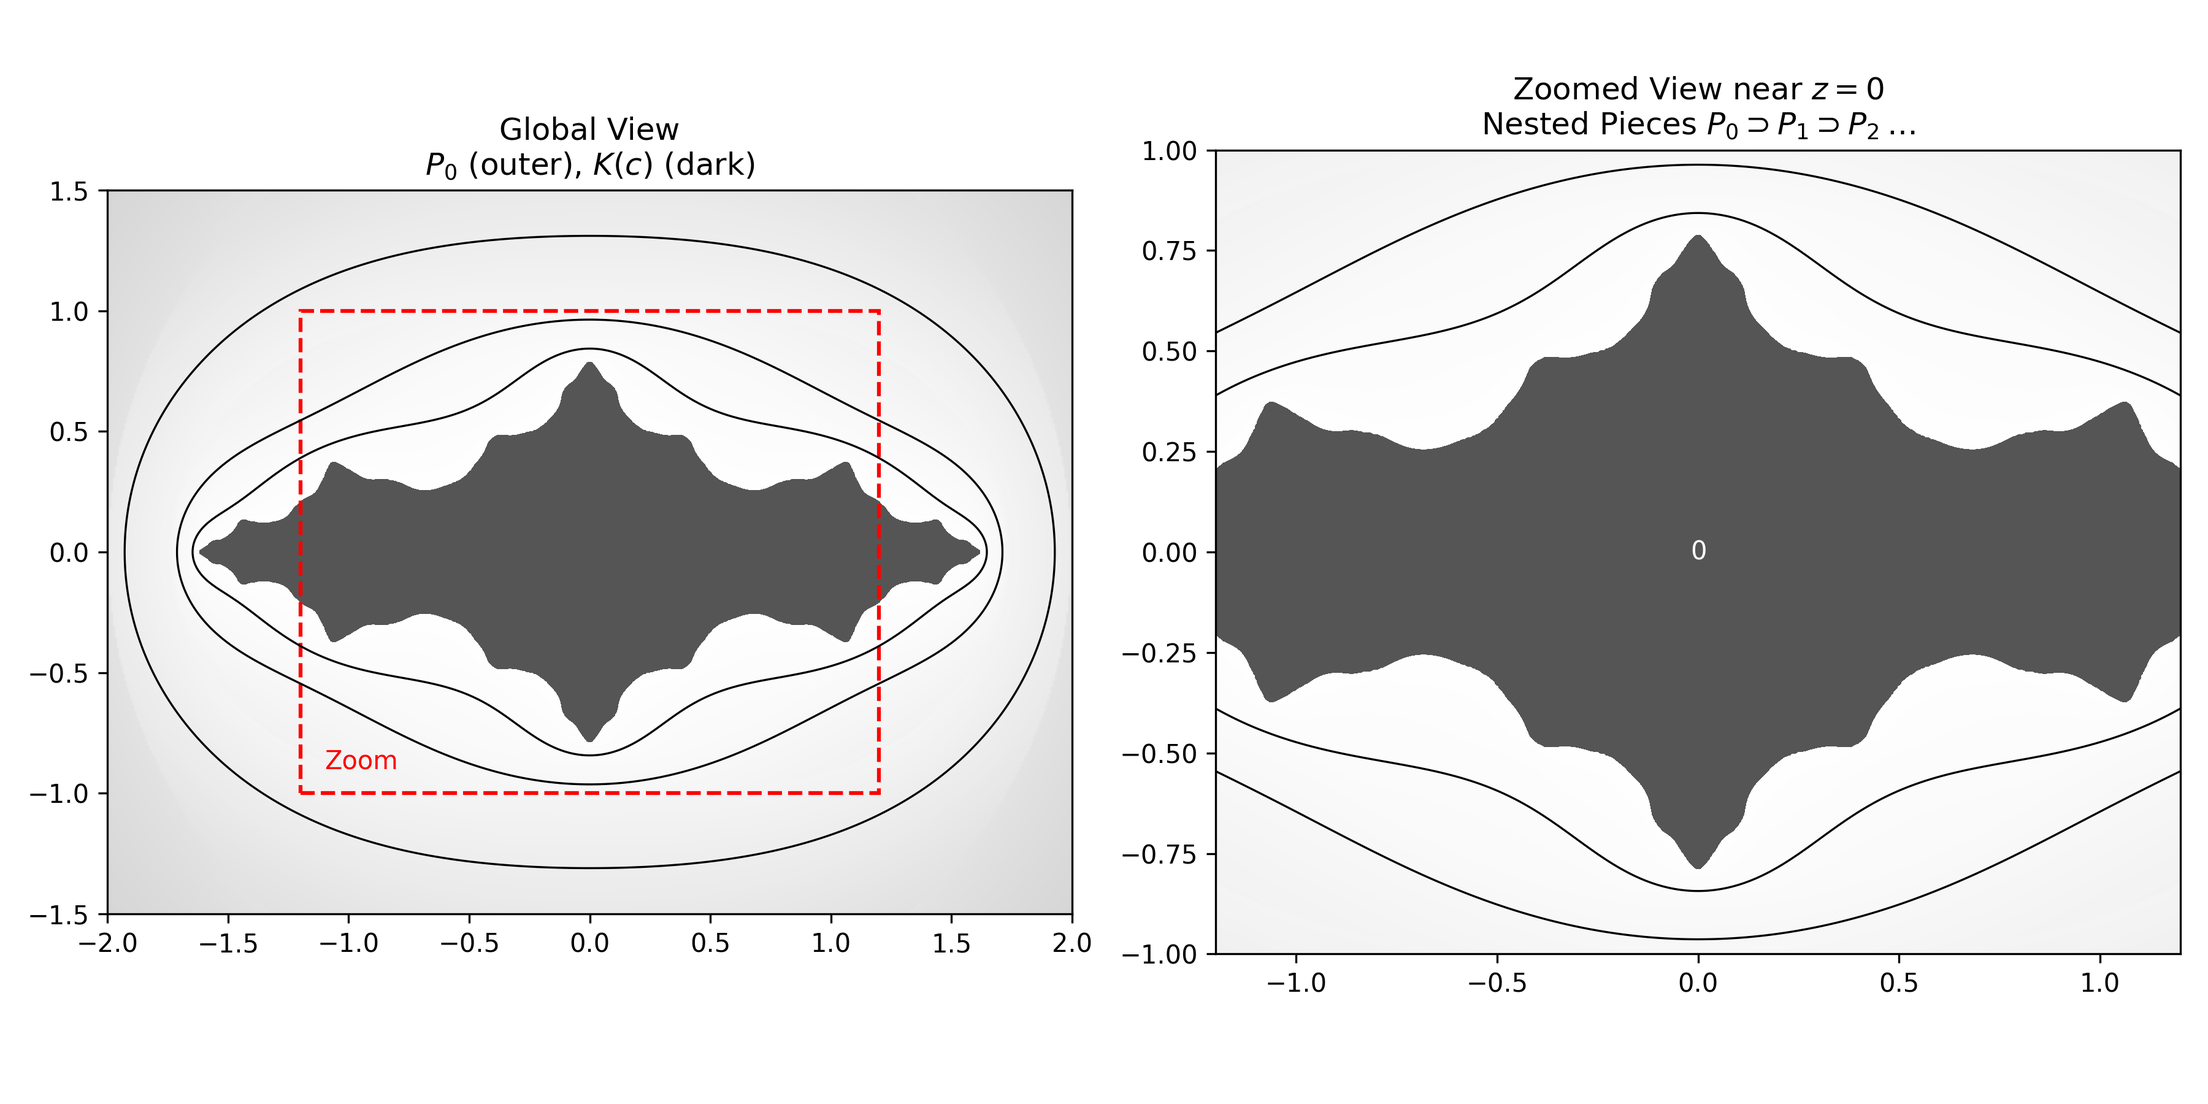
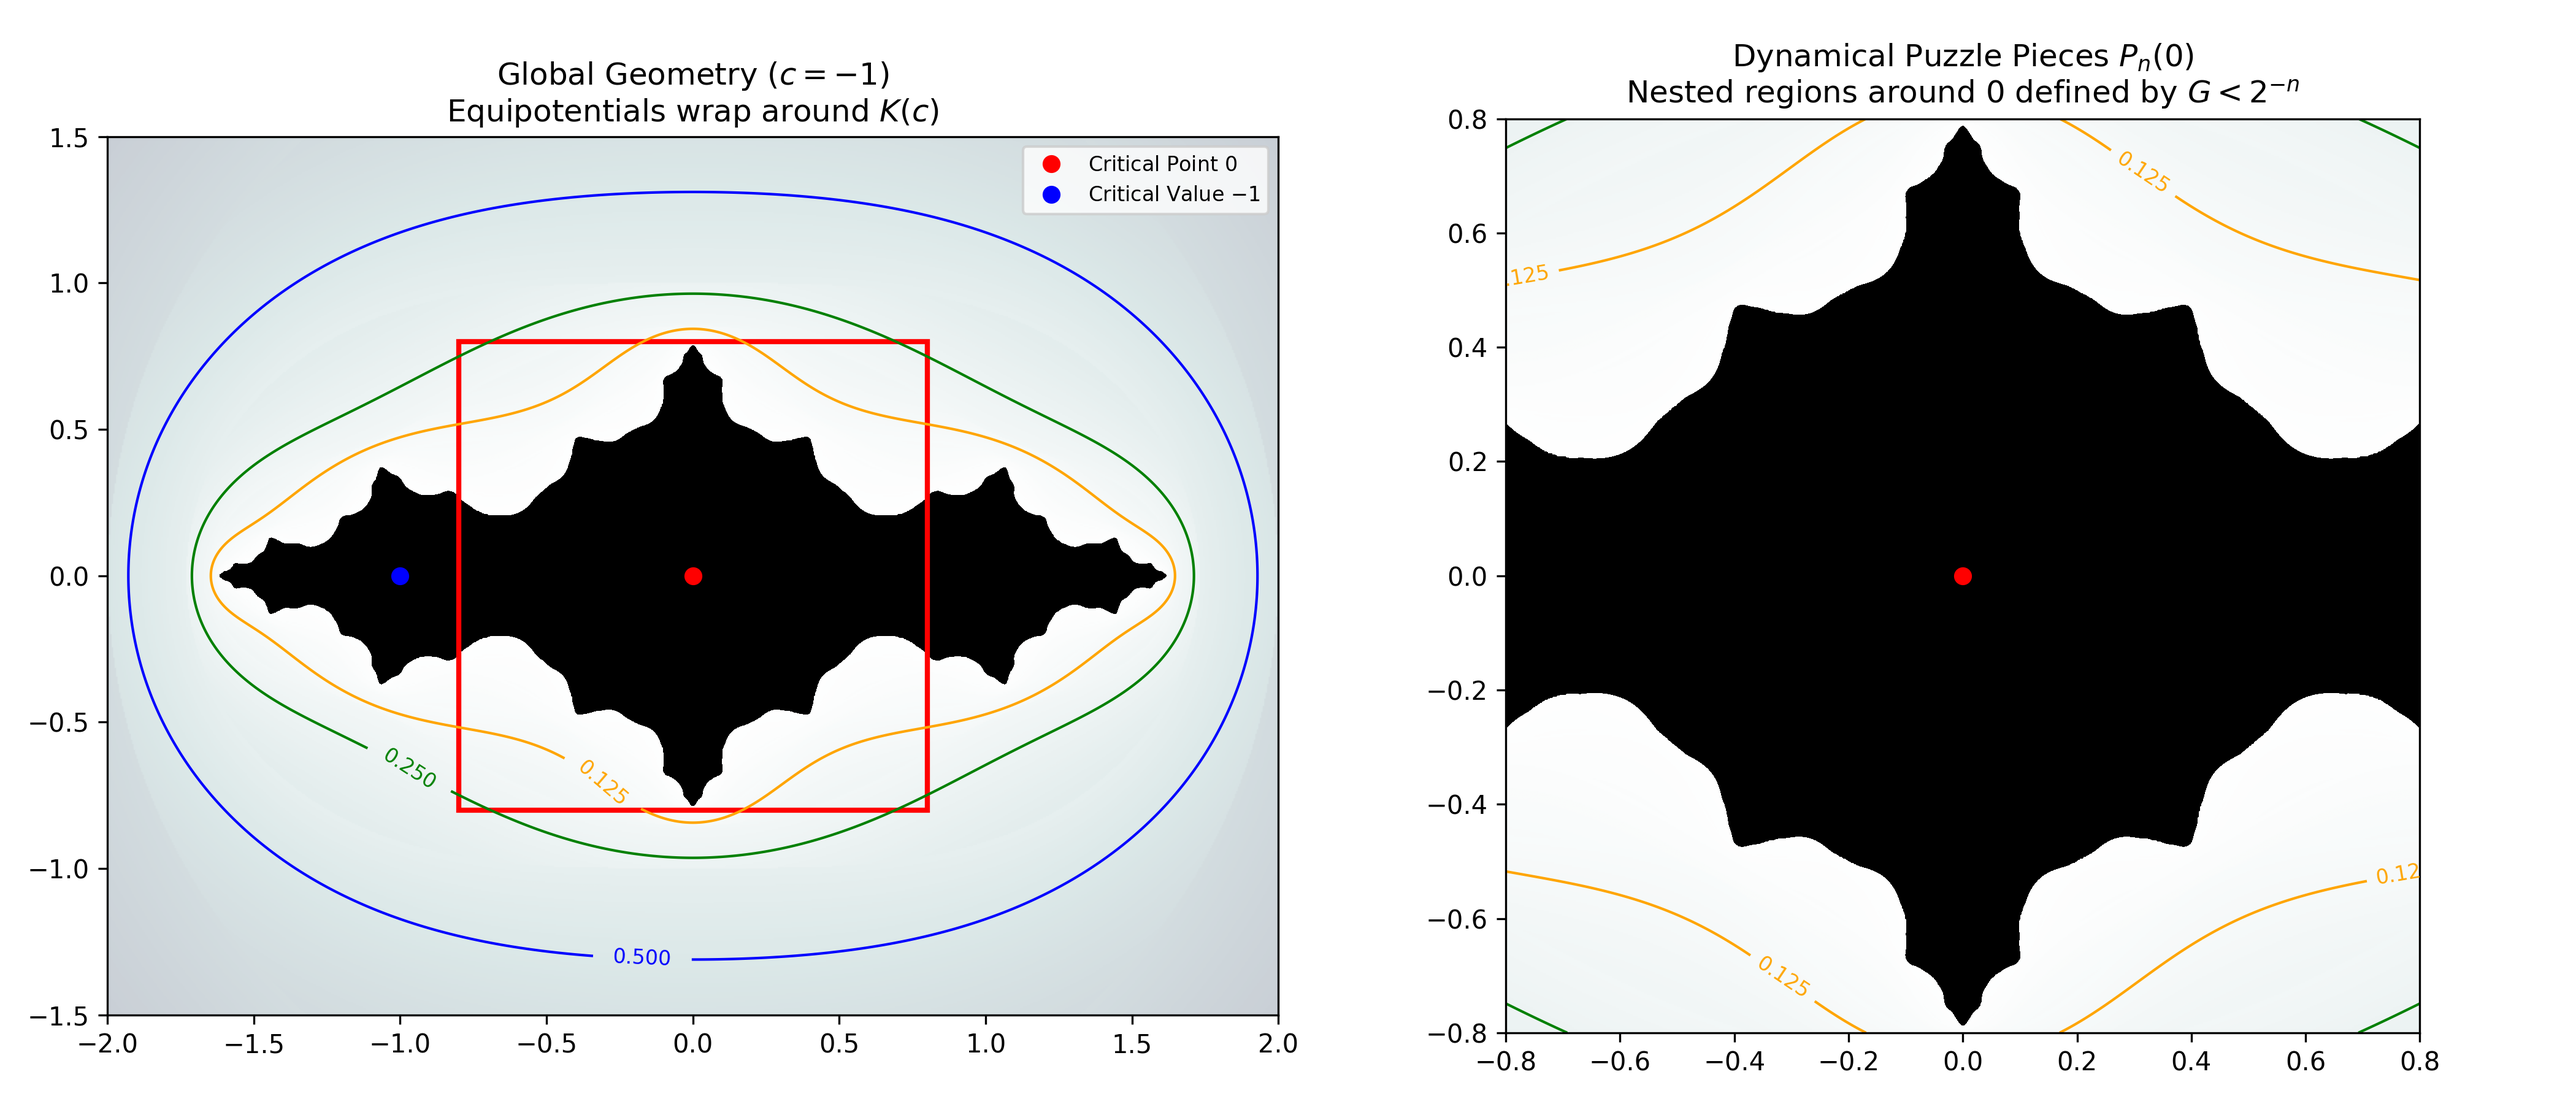
WIP

diff --git a/scripts/plot_puzzle.py b/scripts/plot_puzzle.py
@@ -18,38 +18,57 @@ def green_function(c, z, max_iter=100, R=2.0):
         zn[not_escaped] = zn[not_escaped]**2 + c
     return g
 
-def plot_view(c, ax, extent, title, add_labels=False):
-    x = np.linspace(extent[0], extent[1], 500)
-    y = np.linspace(extent[2], extent[3], 500)
+def plot_view(c, ax, extent, title, zoom_rect=None, is_global=False):
+    # Higher resolution
+    x = np.linspace(extent[0], extent[1], 800)
+    y = np.linspace(extent[2], extent[3], 600)
     X, Y = np.meshgrid(x, y)
     Z = X + 1j * Y
     
-    G = green_function(c, Z, max_iter=60)
+    # Compute Green's function
+    G = green_function(c, Z, max_iter=100)
     
-    # Plot background potential
-    ax.imshow(G, extent=extent, origin='lower', cmap='Greys', vmax=1.5, alpha=0.3)
+    # Plot background potential (Greys)
+    # We want to clearly see the "Basin of Infinity" potential
+    ax.imshow(G, extent=extent, origin='lower', cmap='bone_r', vmax=2.0, alpha=0.4)
     
-    # Plot filled Julia set approximation
-    ax.contourf(X, Y, G, levels=[0, 0.02], colors=['#555555'])
+    # Plot filled Julia set (approx G=0)
+    ax.contourf(X, Y, G, levels=[0, 0.01], colors=['black'])
     
-    # Contours for puzzle pieces levels 1/2^n
-    # levels: 1.0 (n=0), 0.5 (n=1), 0.25 (n=2), 0.125 (n=3)
-    plot_levels = sorted([1.0, 0.5, 0.25, 0.125])
-    
-    # Use different colors/styles for contours to distinguish depth
-    cs = ax.contour(X, Y, G, levels=plot_levels, colors='black', linewidths=0.8)
-    
-    if add_labels:
-        ax.text(0, 0, '$0$', ha='center', va='center', fontweight='bold', color='white')
-        # Label P_0 \ P_1
-        # P_0 is G < 1. P_1 is G < 0.5.
-        # So region between 0.5 and 1.0
-        # In zoomed view (extent ~ 1.5), we can place it.
-        # For Basilica c=-1, critical point is 0. Critical value -1.
-        # Another component of P_1 is around -1? No P_n(0) is component containing 0.
+    # Plot Critical Point and Critical Value
+    if is_global:
+        ax.plot(0, 0, 'ro', label='Critical Point $0$')
+        ax.plot(-1, 0, 'bo', label='Critical Value $-1$')
+        ax.legend(loc='upper right', fontsize=8)
+    else:
+        ax.plot(0, 0, 'ro')
         
-        # Just simple labels
-        pass
+    # Contours
+    # We want to show how the "Puzzle Piece" cuts off.
+    # Level 0 (P_0): G = 1.0 (Outer boundary)
+    # Level 1 (P_1): G = 0.5 (Separates components?)
+    # For Basilica, 0 and -1 are in different main components if we cut deep enough.
+    # Actually, for c=-1, 0 and -1 are in the immediate basin of the superattracting cycle 0 <-> -1.
+    # The Julia set touches at the alpha fixed point.
+    
+    # Let's plot levels: 1.0, 0.5, 0.25, 0.125
+    levels = sorted([1.0, 0.5, 0.25, 0.125])
+    colors = ['orange', 'green', 'blue', 'purple'] # Match reversed order: 0.125 (orange), 0.25 (green), 0.5 (blue), 1.0 (purple)
+    
+    cs = ax.contour(X, Y, G, levels=levels, colors=colors, linewidths=1.0)
+    ax.clabel(cs, inline=True, fontsize=8, fmt='%.3f')
+    
+    if zoom_rect:
+        from matplotlib.patches import Rectangle
+        # zoom_rect is (x, y, w, h)
+        rect = Rectangle((zoom_rect[0], zoom_rect[2]), 
+                         zoom_rect[1]-zoom_rect[0], 
+                         zoom_rect[3]-zoom_rect[2], 
+                         linewidth=2, edgecolor='red', facecolor='none', linestyle='-')
+        ax.add_patch(rect)
+        
+        # Draw lines connecting box to the other axes? 
+        # Hard to coordinate between subplots simply, but we can just show the box.
         
     ax.set_title(title)
     ax.set_aspect('equal')
@@ -57,20 +76,26 @@ def plot_view(c, ax, extent, title, add_labels=False):
     ax.set_ylim(extent[2], extent[3])
 
 def main():
-    fig, axes = plt.subplots(1, 2, figsize=(12, 6))
+    fig, axes = plt.subplots(1, 2, figsize=(14, 6))
     
     # Basilica c = -1
     # Global View
-    plot_view(-1, axes[0], [-2.0, 2.0, -1.5, 1.5], "Global View\n$P_0$ (outer), $K(c)$ (dark)")
+    # Show wide enough to see the "figure 8" of Basilica
+    global_extent = [-2.0, 2.0, -1.5, 1.5]
+    zoom_extent = [-0.8, 0.8, -0.8, 0.8]
     
-    # Add a box showing the zoom region
-    from matplotlib.patches import Rectangle
-    rect = Rectangle((-1.2, -1.0), 2.4, 2.0, linewidth=1.5, edgecolor='r', facecolor='none', linestyle='--')
-    axes[0].add_patch(rect)
-    axes[0].text(-1.1, -0.9, "Zoom", color='red', fontsize=10)
+    plot_view(-1, axes[0], global_extent, 
+              "Global Geometry ($c=-1$)\nEquipotentials wrap around $K(c)$", 
+              zoom_rect=zoom_extent, is_global=True)
     
     # Zoomed View
-    plot_view(-1, axes[1], [-1.2, 1.2, -1.0, 1.0], "Zoomed View near $z=0$\nNested Pieces $P_0 \supset P_1 \supset P_2 \dots$", add_labels=True)
+    plot_view(-1, axes[1], zoom_extent, 
+              "Dynamical Puzzle Pieces $P_n(0)$\nNested regions around $0$ defined by $G < 2^{-n}$",
+              is_global=False)
+              
+    # Add an arrow indicating zoom
+    # This is tricky in coords, but we can do figure-relative coords
+    # Let's just trust the red box.
     
     plt.tight_layout()
     plt.savefig('../docs/images/puzzle_pieces.png', dpi=300)

diff --git a/docs/proof.tex b/docs/proof.tex
@@ -75,13 +75,13 @@
 }
 
 \title{Formalization of Yoccoz's Theorem for Quadratic Polynomials}
-\author{\url{https://github.com/kirill-kondrashov/mlc}}
+\author{\url{https://github.com/kirill-kondrashov/yoccoz-theorem}}
 \date{\today}
 
 \begin{document}
 
 \begin{abstract}
-  This document presents a formalization of Yoccoz's Theorem for quadratic polynomials, which is a key step towards the Local Connectivity of the Mandelbrot Set (MLC) conjecture. The formalization is implemented in Lean 4. The Lean 4 code was generated by Gemini 3 Pro Preview with manual fixes and adjustments. It is currently under manual verification; see \url{https://github.com/kirill-kondrashov/mlc/blob/main/README.md} for the latest updates.
+  This document presents a formalization of Yoccoz's Theorem for quadratic polynomials, which is a key step towards the Local Connectivity of the Mandelbrot Set (MLC) conjecture. The formalization is implemented in Lean 4. The Lean 4 code was generated by Gemini 3 Pro Preview with manual fixes and adjustments. It is currently under manual verification; see \url{https://github.com/kirill-kondrashov/yoccoz-theorem/blob/main/README.md} for the latest updates.
 \end{abstract}
 
 \maketitle

diff --git a/docs/Puzzle.tex b/docs/Puzzle.tex
@@ -19,7 +19,7 @@ In particular, we are interested in the sequence of puzzle pieces containing the
 \begin{figure}[ht]
     \centering
     \includegraphics[width=1.0\textwidth]{images/puzzle_pieces.png}
-    \caption{Dynamical Puzzle Pieces for the Basilica ($c=-1$). Left: Global view showing the filled Julia set $K(c)$ and the equipotential lines. The red box indicates the zoomed region. Right: Zoomed view around the critical point $0$. The nested contours ($G_c(z) = 1, 1/2, 1/4, \dots$) define the puzzle pieces $P_n(0)$, which shrink towards $0$.}
+    \caption{Dynamical Puzzle Pieces for the Basilica ($c=-1$). Left: Global view showing the Julia set $K(c)$ (black) and the equipotential lines wrapping around it. The red box indicates the zoomed region. Note how the equipotentials pinch off regions around $0$ and $-1$. Right: Zoomed view around the critical point $0$. The nested contours ($G_c(z) = 1, 1/2, 1/4, \dots$) define the puzzle pieces $P_n(0)$, which shrink towards $0$.}
     \label{fig:puzzle_pieces}
 \end{figure}
 
